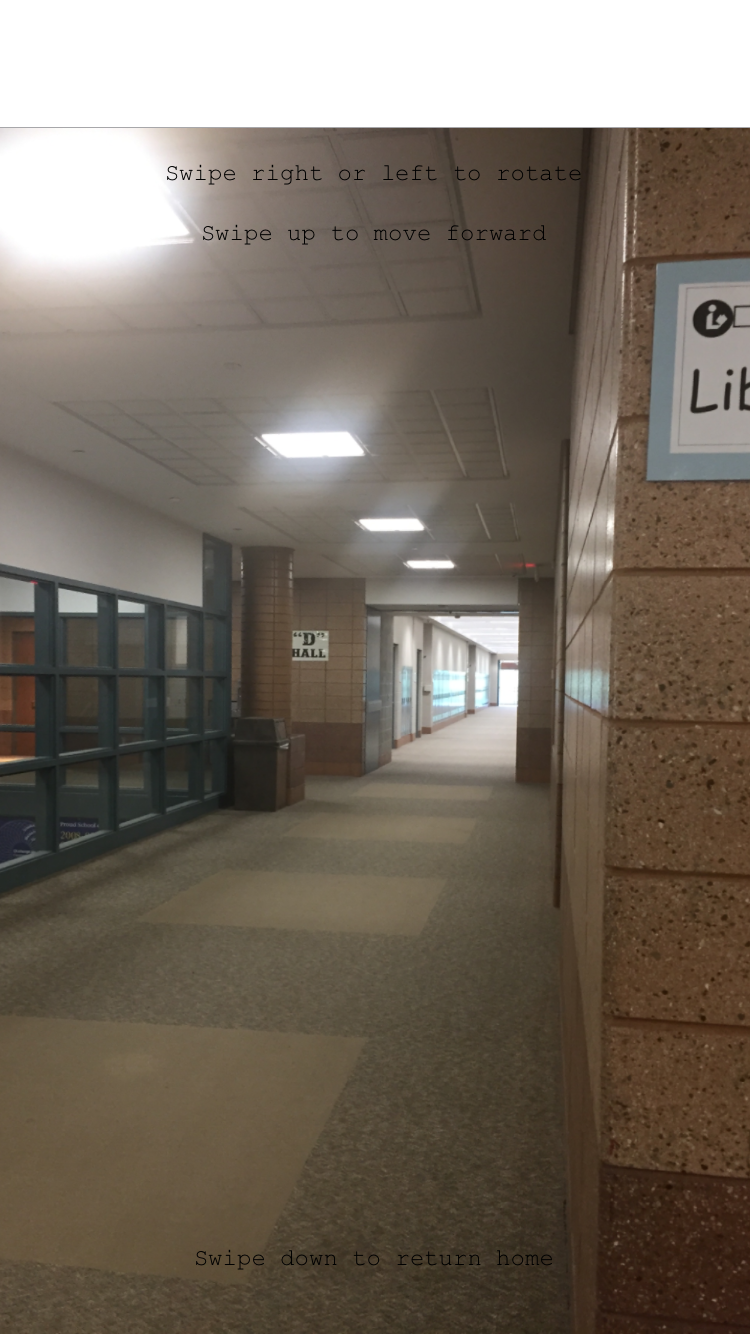
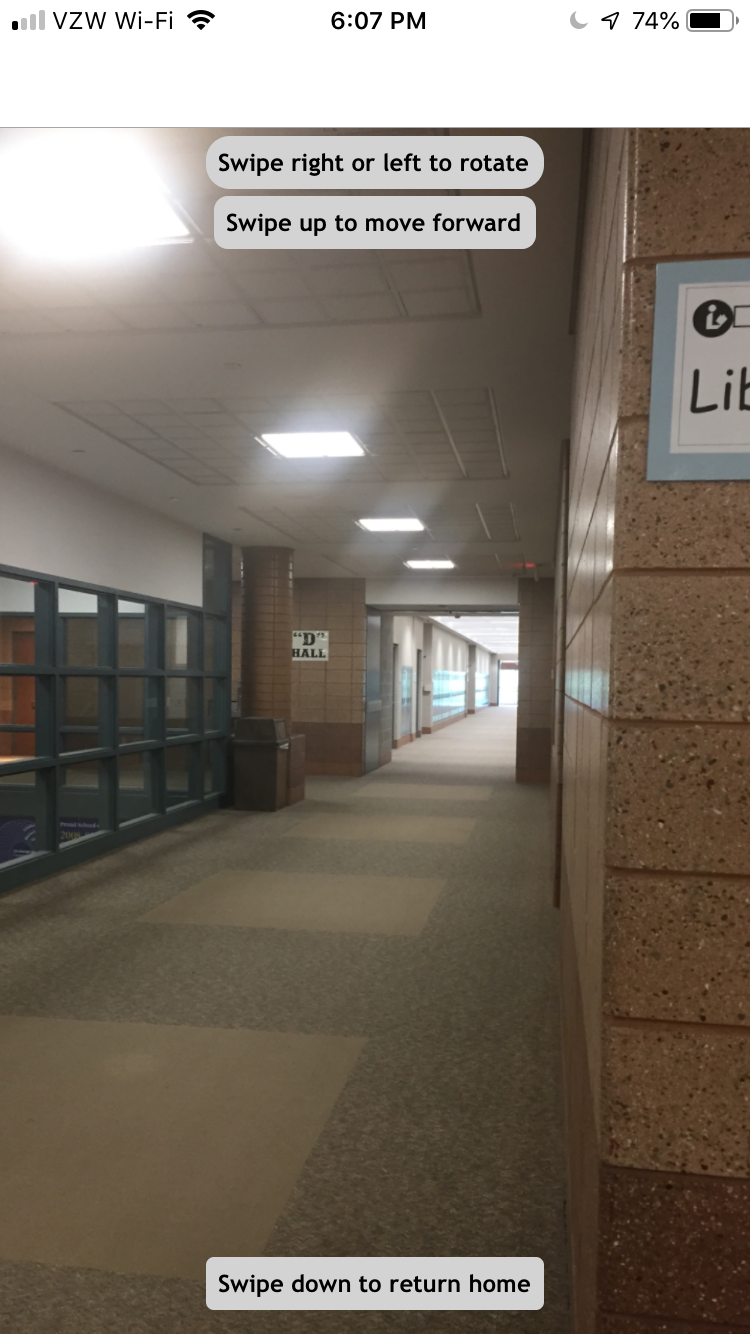
UI version 1.3
added border rounding (borderRadius) and text backgrounds

diff --git a/App.js b/App.js
@@ -8,30 +8,6 @@ import * as K from './Constants.js';
 import * as pics from './Pictures.js';
 import * as Map from './Map.js';
 
-const styles = StyleSheet.create({
-  titleCard:{
-    backgroundColor: 'lightblue',
-  },
-  infoCard:{
-    backgroundColor: 'lightblue',
-  },
-  titleBox:{
-    fontFamily: "Courier New",
-    fontSize: 24,
-    textAlign: 'center',
-    justifyContent: 'center',
-    alignItems: 'center',
-  },
-  instructionBox:{
-    fontSize: 12, 
-    fontFamily: "Courier New",
-    
-    textAlign: 'center',
-    justifyContent: 'center',
-    alignItems: 'center',
-  }
-});
-
 class HomeScreen extends React.Component{
   render(){
     const config = {
@@ -56,9 +32,7 @@ class HomeScreen extends React.Component{
         <Card containerStyle={styles.infoCard}>
           <Text style={styles.instructionBox}>Swipe down to return home</Text>
         </Card>
-        <Card containerStyle={styles.infoCard}>
-          <Text style={{position:"absolute", textAlign: 'center', bottom: '10%', fontSize: 12, fontFamily: "Courier New"}}>Note: there is some lag when loading pictures</Text>
-          
+        <Card containerStyle={styles.infoCard}>      
           <Button
             title="Begin"
             onPress={() => {
@@ -70,6 +44,9 @@ class HomeScreen extends React.Component{
               }))
             }}
           />
+        </Card>
+        <Card containerStyle={styles.infoCard}>
+          <Text style={{textAlign: 'center', fontSize: 12, fontFamily: "TrebuchetMS-Bold"}}>Note: there is some lag when loading pictures</Text>
         </Card>
       </GestureRecognizer>
     );
@@ -123,9 +100,20 @@ class Exploration extends React.Component{
         {this.state.section == "upperCDEntrance" ? <ImageBackground source = {pics.upperCDEntrance[this.state.id].image} style={{width: '100%', height: '100%'}}/>: null}
         {this.state.section == "upperCDJunctionA" ? <ImageBackground source = {pics.upperCDJunctionA[this.state.id].image} style={{width: '100%', height: '100%'}}/>: null}
         {this.state.section == "upperCDJunctionB" ? <ImageBackground source = {pics.upperCDJunctionB[this.state.id].image} style={{width: '100%', height: '100%'}}/>: null}
-        <Text style={{alignItems: 'center',justifyContent: 'center', position: 'absolute', bottom: '95%', fontSize: 12, fontFamily: "Courier New"}}>Swipe right or left to rotate</Text>
-        {Map.checkIfCanMove(this.state.section, this.state.id) ? <Text style={{position: 'absolute', bottom: '90%', fontSize: 12, fontFamily: "Courier New"}}>Swipe up to move forward</Text> : null}
-        <Text style={{position: 'absolute', bottom: '5%', fontSize: 12, fontFamily: "Courier New"}}>Swipe down to return home</Text>
+        
+        <Text 
+          style={{backgroundColor: 'lightgrey', padding: 6, fontSize: 12, fontFamily: "TrebuchetMS-Bold", alignItems: 'center', justifyContent: 'center', position: 'absolute', bottom: '95%', borderRadius: 12, overflow: 'hidden'}}>
+            Swipe right or left to rotate
+        </Text>   
+        {Map.checkIfCanMove(this.state.section, this.state.id) ? 
+          <Text 
+            style={{backgroundColor: 'lightgrey', padding: 6, fontSize: 12, fontFamily: "TrebuchetMS-Bold", position: 'absolute', bottom: '90%', borderRadius: 7, overflow: 'hidden'}}>
+              Swipe up to move forward
+          </Text> : null}
+        <Text 
+          style={{backgroundColor: 'lightgrey', padding: 6, fontSize: 12, fontFamily: "TrebuchetMS-Bold", position: 'absolute', bottom: '2%', borderRadius: 4, overflow: 'hidden'}}>
+            Swipe down to return home
+        </Text>
         
       </GestureRecognizer>
     );
@@ -163,6 +151,37 @@ const AppNavigator = createStackNavigator({
 
 export default createAppContainer(AppNavigator);
 
+
+const styles = StyleSheet.create({
+  titleCard:{
+    backgroundColor: 'lightblue',
+    borderRadius: 20,
+  },
+  infoCard:{
+    backgroundColor: 'lightblue',
+    borderRadius: 24,
+  },
+  titleBox:{
+    fontFamily: "TrebuchetMS-Bold",
+    fontSize: 24,
+    textAlign: 'center',
+    justifyContent: 'center',
+    alignItems: 'center',
+  },
+  instructionBox:{
+    fontSize: 12, 
+    fontFamily: "TrebuchetMS-Bold",
+    
+    textAlign: 'center',
+    justifyContent: 'center',
+    alignItems: 'center',
+  },
+  standardPadding:{
+    backgroundColor: 'lightblue', 
+    padding: 8, 
+    borderRadius: 7,
+  },
+});
 
 /*
 export default class FlexDimensionsBasics extends Component {
